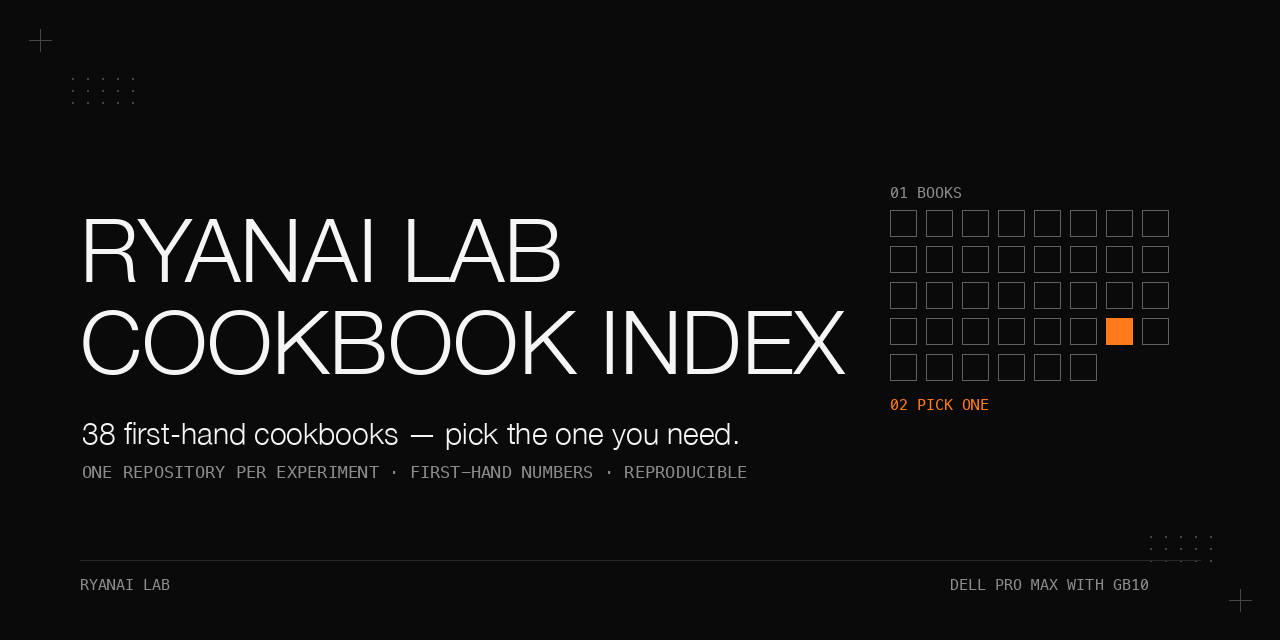
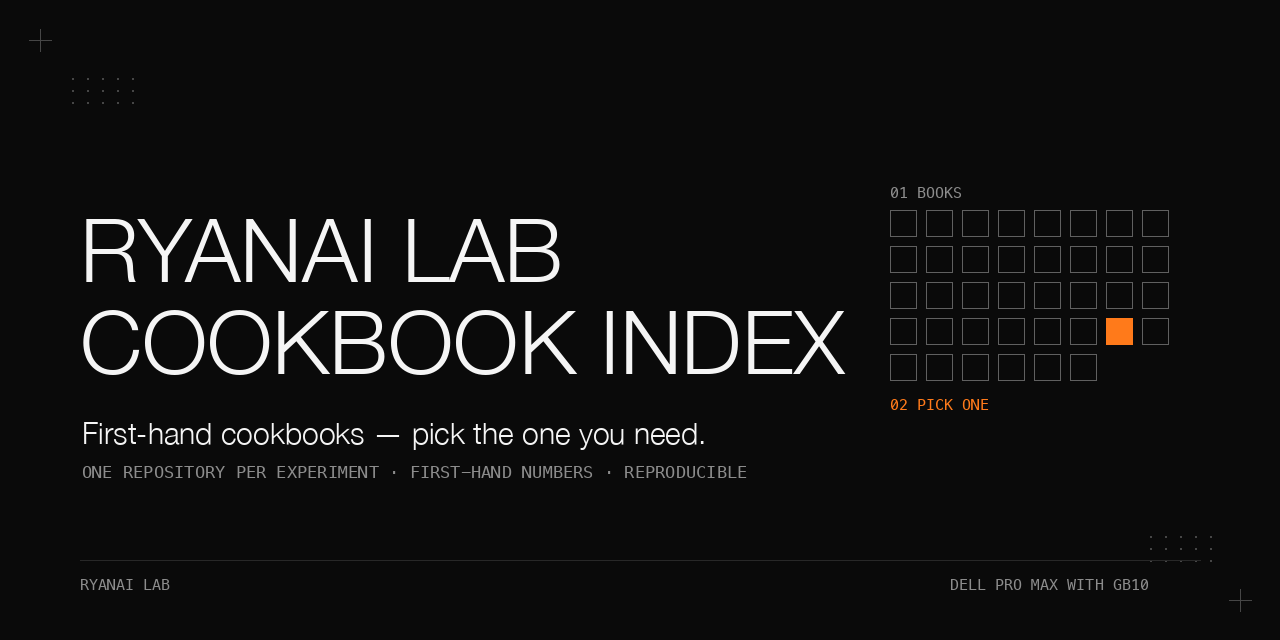
Index update (2026-10): 16 new cookbooks, status column (current/rollback/historical), new reading paths

Changed region(s): [[0.0625, 0.6562, 0.5625, 0.7188]]

diff --git a/docs/make_banner.py b/docs/make_banner.py
@@ -1,7 +1,7 @@
 #!/usr/bin/env python3
 """Draw the repo banner. Pure PIL, no generated imagery — RyanAI Lab house style.
 
-Concept: 38 first-hand cookbooks, pick the one you need.
+Concept: first-hand cookbooks, pick the one you need.
 Left = wordmark. Right = an index grid of 38 small tiles (one per cookbook),
 with a single orange tile marking the one you pick.
 """
@@ -48,7 +48,7 @@ for ox, oy in ((72, 78), (1150, 536)):
 # wordmark
 d.text((80, 196), "RYANAI LAB", font=f_title, fill=WHITE)
 d.text((80, 288), "COOKBOOK INDEX", font=f_title, fill=WHITE)
-d.text((82, 414), "38 first-hand cookbooks — pick the one you need.", font=f_tag, fill=WHITE)
+d.text((82, 414), "First-hand cookbooks — pick the one you need.", font=f_tag, fill=WHITE)
 d.text((82, 462), "ONE REPOSITORY PER EXPERIMENT · FIRST-HAND NUMBERS · REPRODUCIBLE", font=f_mono, fill=GREY)
 
 # right: index motif — a grid of 38 book tiles, one picked (orange)

diff --git a/README.md b/README.md
@@ -2,16 +2,16 @@
 
 # RyanAI Lab cookbooks — index
 
-Part of RyanAI Lab. One repository per experiment; each one carries its own numbers, pitfalls and reproduction steps. This page only tells you which one to open.
+Part of RyanAI Lab. One repository per experiment. Each one carries its own numbers, pitfalls and reproduction steps; this page only tells you which one to open.
 
 ## Start here
 
-**"I run one or two Dell Pro Max with GB10 nodes and want to serve a model"**
+**"I run a Dell Pro Max with GB10 and want to serve a model"**
 
 1. [dell-pro-max-gb10-uma-memory-pitfalls](https://github.com/ryangu00/dell-pro-max-gb10-uma-memory-pitfalls) — the unified-memory incidents every node operator hits first.
-2. [dell-pro-max-gb10-qsfp-dual-rail](https://github.com/ryangu00/dell-pro-max-gb10-qsfp-dual-rail) — cabling and NCCL rail naming that decides two-node throughput.
-3. [dell-pro-max-gb10-qwen3.8-flash-next](https://github.com/ryangu00/dell-pro-max-gb10-qwen3.8-flash-next) and [dell-pro-max-gb10-deepseek-v4-flash-vision-exp](https://github.com/ryangu00/dell-pro-max-gb10-deepseek-v4-flash-vision-exp) — the two two-node serving books (TP2, long context, vision).
-4. [dell-pro-max-gb10-qwen3.8-27b](https://github.com/ryangu00/dell-pro-max-gb10-qwen3.8-27b) and [dell-pro-max-gb10-gpt-oss-120b](https://github.com/ryangu00/dell-pro-max-gb10-gpt-oss-120b) — the single-node books, one engine-native, one release-software.
+2. [dell-pro-max-gb10-deepseek-v4-flash-vision-exl3-single-node](https://github.com/ryangu00/dell-pro-max-gb10-deepseek-v4-flash-vision-exl3-single-node) — the current single-node production setup: deployment, acceptance, a draft-model graft and a mislabeled-baseline lesson.
+3. [dell-pro-max-gb10-gpt-oss-120b](https://github.com/ryangu00/dell-pro-max-gb10-gpt-oss-120b) — a big model on one box on release software, zero patches.
+4. Two nodes: [dell-pro-max-gb10-qsfp-dual-rail](https://github.com/ryangu00/dell-pro-max-gb10-qsfp-dual-rail) for cabling, then [dell-pro-max-gb10-qwen3.8-flash-next](https://github.com/ryangu00/dell-pro-max-gb10-qwen3.8-flash-next). The cabling method remains current; the Flash-Next deployment is retained as a rollback recipe.
 
 **"I want to fine-tune on this hardware"**
 
@@ -23,45 +23,69 @@ Part of RyanAI Lab. One repository per experiment; each one carries its own numb
 **"I want to know whether a model is good for MY work"**
 
 1. [ryanai-evalbank](https://github.com/ryangu00/ryanai-evalbank) — the method for scoring a model on your own work without publishing the questions.
-2. [dell-pro-max-gb10-qwen3.8-flash-next-agentic-thinking](https://github.com/ryangu00/dell-pro-max-gb10-qwen3.8-flash-next-agentic-thinking) — why the measurement setting, not the model, decided an agentic gap.
-3. [dell-pro-max-gb10-qwen3.8-flash-next-engine-ab](https://github.com/ryangu00/dell-pro-max-gb10-qwen3.8-flash-next-engine-ab) — the engine-form A/B the setting change made possible.
+2. [local-llm-bakeoff-measurement-pitfalls](https://github.com/ryangu00/local-llm-bakeoff-measurement-pitfalls) — read the pipeline before you read the score.
+3. [dell-pro-max-gb10-qwen3.8-flash-next-agentic-thinking](https://github.com/ryangu00/dell-pro-max-gb10-qwen3.8-flash-next-agentic-thinking) — how thinking mode and vendor-specific sampling narrowed an observed agentic gap, with unequal thinking tiers and unresolved confounds.
 
-## Two-node serving on Dell Pro Max with GB10
+**"I run coding agents and want to trust what they report"**
 
-| repo | what it is | read it when | status | updated |
-|---|---|---|---|---|
-| [dell-pro-max-gb10-qwen3.8-flash-next](https://github.com/ryangu00/dell-pro-max-gb10-qwen3.8-flash-next) | Dual-node deployment of a new-architecture GDN+QSA model, from a 50K safety line to a 1M-context production engine. | You are standing up this model on two nodes. | current | 2026-09-20 |
-| [dell-pro-max-gb10-qwen3.8-flash-next-1m-context](https://github.com/ryangu00/dell-pro-max-gb10-qwen3.8-flash-next-1m-context) | Extending the model from native 262K context to a 1M window with static YaRN rope scaling, measured. | You need a validated long-context recipe, not guesses. | current | 2026-09-20 |
-| [dell-pro-max-gb10-qwen3.8-flash-next-agentic-thinking](https://github.com/ryangu00/dell-pro-max-gb10-qwen3.8-flash-next-agentic-thinking) | A failed agentic gate shown to be a measurement setting, fixed by enabling thinking mode. | Your model "fails" agentic evaluation and you suspect the harness. | current | 2026-09-20 |
-| [dell-pro-max-gb10-qwen3.8-flash-next-engine-ab](https://github.com/ryangu00/dell-pro-max-gb10-qwen3.8-flash-next-engine-ab) | A one-night A/B of engine forms: native 262K vs YaRN variants vs KV precision vs MTP off. | You are choosing between engine configurations of the same weights. | current | 2026-09-20 |
-| [dell-pro-max-gb10-vllm-mtp-async-runaway](https://github.com/ryangu00/dell-pro-max-gb10-vllm-mtp-async-runaway) | Runaway repetition loops from async scheduling combined with MTP, and the one-flag fix. | Your stack repeats itself under real agentic load. | current | 2026-09-20 |
-| [dell-pro-max-gb10-vllm-stack-ab](https://github.com/ryangu00/dell-pro-max-gb10-vllm-stack-ab) | A/B of vLLM serving stacks for two-node deployment. | You are picking a serving stack rather than a model. | current | 2026-09-17 |
-| [dell-pro-max-gb10-zero-downtime-model-swap](https://github.com/ryangu00/dell-pro-max-gb10-zero-downtime-model-swap) | Swapping the engine from one model stack to another with zero changes on consumer surfaces. | You must change engines without breaking callers. | current | 2026-09-20 |
-| [dell-pro-max-gb10-deepseek-v4-flash-vision-exp](https://github.com/ryangu00/dell-pro-max-gb10-deepseek-v4-flash-vision-exp) | Two-node tensor-parallel serving of vision-enhanced weights with long context and image input. | You want a two-node production stack with vision. | current | 2026-09-20 |
-| [dell-pro-max-gb10-dual-node-model-bakeoff-2026-05](https://github.com/ryangu00/dell-pro-max-gb10-dual-node-model-bakeoff-2026-05) | Head-to-head selection benchmark across four candidate models on a private question suite. | You are comparing candidate models for a two-node purchase or deployment. | historical | 2026-09-20 |
+1. [agent-guards-that-fail-silently](https://github.com/ryangu00/agent-guards-that-fail-silently) — negative probes for guards that look armed and are not.
+2. [sandboxed-coding-agent-workers](https://github.com/ryangu00/sandboxed-coding-agent-workers) — isolate the configuration, sandbox to the minimum, verify outside the worker.
+3. [two-coding-agents-side-by-side](https://github.com/ryangu00/two-coding-agents-side-by-side) — one set of guards for two agents and a read-only cross-vendor reviewer.
+4. [axiom](https://github.com/ryangu00/axiom) — the completion verifier several of these books build on.
+
+**"I want a small local model to make decisions or route requests"**
+
+1. [local-llm-as-decision-maker](https://github.com/ryangu00/local-llm-as-decision-maker) — first-token readouts, literal question batteries, fine-tuning and the arithmetic of small samples.
+2. [agent-persona-semantic-router-calibration](https://github.com/ryangu00/agent-persona-semantic-router-calibration) — embedding routing to hundreds of personas with no LLM on the hot path.
+3. [llm-gateway-routing-in-production](https://github.com/ryangu00/llm-gateway-routing-in-production) — a configured fallback is not a working fallback.
+
+## Status column
+
+- **current**: the setup is in use, or the method or fix is still what we recommend.
+- **rollback**: the setup no longer serves production but is kept as a fallback; its measurements still hold for that recipe and hardware.
+- **historical**: a record. The setup has been replaced or removed; the pitfalls and measurements stand as of the dates in the book.
 
 ## Single-node serving on Dell Pro Max with GB10
 
 | repo | what it is | read it when | status | updated |
 |---|---|---|---|---|
-| [dell-pro-max-gb10-qwen3.8-27b](https://github.com/ryangu00/dell-pro-max-gb10-qwen3.8-27b) | Single-machine deployment of Qwen3.8-27B with quantization, speculative decoding and a hot-plugged vision tower. | You want the single-node workhorse setup. | current | 2026-09-20 |
+| [dell-pro-max-gb10-deepseek-v4-flash-vision-exl3-single-node](https://github.com/ryangu00/dell-pro-max-gb10-deepseek-v4-flash-vision-exl3-single-node) | DeepSeek V4 Flash with vision on one node: deployment, acceptance, a draft-model graft for faster decode, and a mislabeled-baseline lesson. | You want one box with long context and image input. | current | 2026-10-04 |
+| [dell-pro-max-gb10-deepseek-v4-flash-exl3](https://github.com/ryangu00/dell-pro-max-gb10-deepseek-v4-flash-exl3) | The text-only EXL3 build that preceded it: one machine, one seat, ultra-long context. | You want the text-only recipe or its corrected engine description. | rollback | 2026-10-03 |
+| [dell-pro-max-gb10-qwen3.8-27b](https://github.com/ryangu00/dell-pro-max-gb10-qwen3.8-27b) | Qwen3.8-27B with quantization, speculative decoding and a hot-plugged vision tower, and what replaced it. | You want a dense mid-size model on one node. | historical | 2026-10-03 |
 | [dell-pro-max-gb10-qwen3.8-27b-mtp-k-sweep](https://github.com/ryangu00/dell-pro-max-gb10-qwen3.8-27b-mtp-k-sweep) | Four rounds of community-proposed serving tuning, all rolled back, with the evidence. | A tuning recipe from the internet looks tempting. | current | 2026-09-20 |
-| [dell-pro-max-gb10-qwen3.8-27b-dflash2-exl3](https://github.com/ryangu00/dell-pro-max-gb10-qwen3.8-27b-dflash2-exl3) | Head-to-head of an EXL3 quantized serving stack against the production vLLM stack for the same model. | You are considering exllamav3 instead of vLLM. | current | 2026-09-20 |
-| [dell-pro-max-gb10-qwen3.6-35b-a3b-nvfp4-mtp](https://github.com/ryangu00/dell-pro-max-gb10-qwen3.6-35b-a3b-nvfp4-mtp) | NVFP4 serving of Qwen3.6-35B-A3B with speculative decoding and alternative MoE/attention backends. | You want to know if this model works on one node. | historical | 2026-09-20 |
-| [dell-pro-max-gb10-muse-glimmer-30b](https://github.com/ryangu00/dell-pro-max-gb10-muse-glimmer-30b) | Deployment of the open-weight Muse family member, ending in a negative result against the incumbent. | You are evaluating this model family. | current | 2026-09-20 |
-| [dell-pro-max-gb10-glm-5.3-flash](https://github.com/ryangu00/dell-pro-max-gb10-glm-5.3-flash) | Full record of a no-go verdict for a dual-machine deployment after a full day of testing. | You want the failure case before trying it yourself. | current | 2026-09-03 |
+| [dell-pro-max-gb10-qwen3.8-27b-dflash2-exl3](https://github.com/ryangu00/dell-pro-max-gb10-qwen3.8-27b-dflash2-exl3) | A rejected EXL3/DFlash2 alternative to vLLM: faster single-stream decoding, but loss of vision, batch-1 concurrency and fork-maintenance costs. | You are considering exllamav3 instead of vLLM. | historical | 2026-09-20 |
 | [dell-pro-max-gb10-gpt-oss-120b](https://github.com/ryangu00/dell-pro-max-gb10-gpt-oss-120b) | A frontier-class 120B on one node at stable throughput on release software, zero patches. | You want a big model on one box without patching. | current | 2026-09-03 |
-| [dell-pro-max-gb10-qwen-int4-122b](https://github.com/ryangu00/dell-pro-max-gb10-qwen-int4-122b) | Our earliest resident production config and the incident-driven ops hardening around it. | You are building ops discipline around a resident service. | current | 2026-09-03 |
-| [dell-pro-max-gb10-deepseek-v4-flash-exl3](https://github.com/ryangu00/dell-pro-max-gb10-deepseek-v4-flash-exl3) | EXL3 quantization, one machine, one seat, ultra-long context. | You want a single-seat long-context workstation, not concurrency. | current | 2026-09-03 |
-| [dell-pro-max-gb10-thinking-tier-proxy](https://github.com/ryangu00/dell-pro-max-gb10-thinking-tier-proxy) | A thin proxy where the local port decides whether and how hard a request thinks. | You want thinking tiers without touching the engine. | current | 2026-09-20 |
-| [dell-pro-max-gb10-ollama-toolbox](https://github.com/ryangu00/dell-pro-max-gb10-ollama-toolbox) | The utility-slot models around a main workhorse: vision fallback, page extraction, embedding. | You are filling the small model slots next to your LLM. | current | 2026-09-03 |
-| [dell-pro-max-gb10-kvbm-ssd-kv-cache](https://github.com/ryangu00/dell-pro-max-gb10-kvbm-ssd-kv-cache) | A minimal measured test of three-tier KV-cache offload, kept for the evidence, not a recommendation. | You are tempted by KV-cache offload to disk. | current | 2026-09-18 |
+| [dell-pro-max-gb10-qwen3.6-35b-a3b-nvfp4-mtp](https://github.com/ryangu00/dell-pro-max-gb10-qwen3.6-35b-a3b-nvfp4-mtp) | NVFP4 serving of Qwen3.6-35B-A3B with speculative decoding and alternative MoE/attention backends. | You want to know if this model works on one node. | historical | 2026-09-20 |
+| [dell-pro-max-gb10-muse-glimmer-30b](https://github.com/ryangu00/dell-pro-max-gb10-muse-glimmer-30b) | Deployment of the open-weight Muse family member, ending in a negative result against the incumbent. | You are evaluating this model family. | historical | 2026-09-20 |
+| [dell-pro-max-gb10-qwen-int4-122b](https://github.com/ryangu00/dell-pro-max-gb10-qwen-int4-122b) | Our earliest resident production config and the incident-driven ops hardening around it. | You are building ops discipline around a resident service. | historical | 2026-09-03 |
+| [dell-pro-max-gb10-thinking-tier-proxy](https://github.com/ryangu00/dell-pro-max-gb10-thinking-tier-proxy) | A thin proxy where the local port decides whether and how hard a request thinks. | You want thinking tiers without touching the engine. | current | 2026-10-03 |
+| [dell-pro-max-gb10-ollama-toolbox](https://github.com/ryangu00/dell-pro-max-gb10-ollama-toolbox) | The utility-slot models around a main workhorse: page extraction, embedding, and the retired vision-fallback slot. | You are filling the small model slots next to your LLM. | current | 2026-10-03 |
+| [dell-pro-max-gb10-unlimited-ocr-doc-ingest](https://github.com/ryangu00/dell-pro-max-gb10-unlimited-ocr-doc-ingest) | Document ingest with a local OCR model: why per-page OCR beat a multi-page call that silently corrupted tables. | You turn scanned or office documents into Markdown locally. | current | 2026-10-04 |
+| [dell-pro-max-gb10-kvbm-ssd-kv-cache](https://github.com/ryangu00/dell-pro-max-gb10-kvbm-ssd-kv-cache) | A minimal measured test of three-tier KV-cache offload, kept for the evidence, not a recommendation. | You are tempted by KV-cache offload to disk. | historical | 2026-10-03 |
+
+## Two-node serving on Dell Pro Max with GB10
+
+Our two-node setup served production until 2026-09-25 and is now a rollback tier. Methods and fixes still apply; the deployments are records.
+
+| repo | what it is | read it when | status | updated |
+|---|---|---|---|---|
+| [dell-pro-max-gb10-qwen3.8-flash-next](https://github.com/ryangu00/dell-pro-max-gb10-qwen3.8-flash-next) | Dual-node deployment of a new-architecture GDN+QSA model, from a 50K safety line to a 1M-context engine. | You are standing up this model on two nodes. | rollback | 2026-10-03 |
+| [dell-pro-max-gb10-qwen3.8-flash-next-1m-context](https://github.com/ryangu00/dell-pro-max-gb10-qwen3.8-flash-next-1m-context) | Extending the model from native 262K context to a 1M window with static YaRN rope scaling, measured. | You need a validated long-context recipe, not guesses. | rollback | 2026-10-03 |
+| [dell-pro-max-gb10-qwen3.8-flash-next-engine-ab](https://github.com/ryangu00/dell-pro-max-gb10-qwen3.8-flash-next-engine-ab) | A one-night A/B of engine forms: native 262K vs YaRN variants vs KV precision vs MTP off. | You are choosing between engine configurations of the same weights. | rollback | 2026-10-03 |
+| [dell-pro-max-gb10-qwen3.8-flash-next-agentic-thinking](https://github.com/ryangu00/dell-pro-max-gb10-qwen3.8-flash-next-agentic-thinking) | How thinking mode and vendor-specific sampling narrowed an observed agentic gap, with unequal thinking tiers and unresolved confounds. | Your model "fails" agentic evaluation and you suspect the harness. | current | 2026-10-03 |
+| [dell-pro-max-gb10-vllm-mtp-async-runaway](https://github.com/ryangu00/dell-pro-max-gb10-vllm-mtp-async-runaway) | Runaway repetition loops from async scheduling combined with MTP, and the one-flag fix. | Your stack repeats itself under real agentic load. | current | 2026-09-20 |
+| [dell-pro-max-gb10-zero-downtime-model-swap](https://github.com/ryangu00/dell-pro-max-gb10-zero-downtime-model-swap) | Swapping engines with zero changes on consumer surfaces, and what the rollback promise was worth after a power cut. | You must change engines without breaking callers. | current | 2026-10-03 |
+| [dell-pro-max-gb10-vllm-stack-ab](https://github.com/ryangu00/dell-pro-max-gb10-vllm-stack-ab) | A/B of vLLM serving stacks for two-node deployment, what happened after it, and a hardened switch script. | You are picking a serving stack rather than a model. | rollback | 2026-10-03 |
+| [dell-pro-max-gb10-deepseek-v4-flash-vision-exp](https://github.com/ryangu00/dell-pro-max-gb10-deepseek-v4-flash-vision-exp) | Two-node tensor-parallel serving of vision-enhanced weights with long context and image input. | You want the two-node vision recipe; the single-node book replaced it. | historical | 2026-10-03 |
+| [dell-pro-max-gb10-dual-node-model-bakeoff-2026-05](https://github.com/ryangu00/dell-pro-max-gb10-dual-node-model-bakeoff-2026-05) | Head-to-head selection benchmark across four candidate models on a private question suite. | You are comparing candidate models for a two-node deployment. | historical | 2026-09-20 |
+| [dell-pro-max-gb10-glm-5.3-flash](https://github.com/ryangu00/dell-pro-max-gb10-glm-5.3-flash) | Full record of a no-go verdict for a dual-machine deployment after a full day of testing. | You want the failure case before trying it yourself. | historical | 2026-09-03 |
+| [dell-pro-max-gb10-openmaic-local-course-engine](https://github.com/ryangu00/dell-pro-max-gb10-openmaic-local-course-engine) | An OpenMAIC course-generation feasibility study using a local vLLM endpoint on two GB10 nodes, with unresolved configuration and browser-egress checks. | You want to evaluate local course generation and its deployment limits. | historical | 2026-10-04 |
 
 ## Hardware and OS
 
 | repo | what it is | read it when | status | updated |
 |---|---|---|---|---|
-| [dell-pro-max-gb10-uma-memory-pitfalls](https://github.com/ryangu00/dell-pro-max-gb10-uma-memory-pitfalls) | Seven incidents where unified memory (CPU and GPU sharing it) caused OOM or worse, with the healing patterns. | Anything on this hardware OOMs and you do not know why. | current | 2026-09-20 |
+| [dell-pro-max-gb10-uma-memory-pitfalls](https://github.com/ryangu00/dell-pro-max-gb10-uma-memory-pitfalls) | Incidents where unified memory caused OOM or worse, what headless actually saves, and the healing patterns. | Anything on this hardware OOMs and you do not know why. | current | 2026-10-03 |
 | [dell-pro-max-gb10-ota-kernel7-kho](https://github.com/ryangu00/dell-pro-max-gb10-ota-kernel7-kho) | Upgrading both nodes across a major kernel, driver and grub change without bricking. | An OTA is overdue and you are afraid of it. | current | 2026-09-20 |
 | [dell-pro-max-gb10-qsfp-dual-rail](https://github.com/ryangu00/dell-pro-max-gb10-qsfp-dual-rail) | A community finding about the QSFP port enumerating as two virtual NICs, verified on hardware back-to-back. | Your two-node bandwidth is half of what it should be. | current | 2026-09-20 |
 
@@ -71,42 +95,66 @@ Part of RyanAI Lab. One repository per experiment; each one carries its own numb
 |---|---|---|---|---|
 | [training-moe-lora-cpt-gb10](https://github.com/ryangu00/training-moe-lora-cpt-gb10) | A measured walkthrough of continued pre-training plus LoRA/SFT of a 35B-A3B MoE on one node. | You are attempting full pre-training-scale work on one box. | current | 2026-09-20 |
 | [training-sft-ablation-discipline](https://github.com/ryangu00/training-sft-ablation-discipline) | A factorial ablation that traced a regression to its cause and measured the base inside the drift band. | Two things changed at once and quality dropped. | current | 2026-09-20 |
-| [training-weights-vs-context](https://github.com/ryangu00/training-weights-vs-context) | Three capability specialisations of one base family, each attempted by weights first, each gated by the same guardrail. | You cannot decide between fine-tuning and context. | current | 2026-09-20 |
+| [training-weights-vs-context](https://github.com/ryangu00/training-weights-vs-context) | Three capability specialisations of one base family, each attempted by weights first, each gated by the same guardrail. | You cannot decide between fine-tuning and context. | current | 2026-10-03 |
 | [training-vl-lora-qwen3.8-27b](https://github.com/ryangu00/training-vl-lora-qwen3.8-27b) | Training a vision LoRA on a public chart dataset and hot-plugging it into a running server. | You want a trained adapter live without a restart. | current | 2026-09-20 |
-| [training-embedding-finetune](https://github.com/ryangu00/training-embedding-finetune) | Fine-tuning an embedding model on your own corpus style and deploying it as a resident service. | Your retrieval misses and your domain vocabulary is odd. | current | 2026-09-20 |
-| [training-reranker](https://github.com/ryangu00/training-reranker) | Self-hosting and training a reranker, plus a community-scale pitfall where a bad file masqueraded as a weak model. | Your precision ranking stage needs work. | current | 2026-09-03 |
+| [training-embedding-finetune](https://github.com/ryangu00/training-embedding-finetune) | Fine-tuning an embedding model on your own corpus style and deploying it as a resident service. | Your retrieval misses and your domain vocabulary is odd. | current | 2026-10-03 |
+| [training-reranker](https://github.com/ryangu00/training-reranker) | Self-hosting and training a reranker, plus a community-scale pitfall where a bad file masqueraded as a weak model. | Your precision ranking stage needs work. | current | 2026-10-03 |
 
 ## Apple silicon
 
 | repo | what it is | read it when | status | updated |
 |---|---|---|---|---|
-| [apple-silicon-qwen3-235b-a22b](https://github.com/ryangu00/apple-silicon-qwen3-235b-a22b) | A real-world record of running a 235B MoE on a large-unified-memory Mac, ending in a deliberate retirement. | You wonder whether a huge MoE fits on a Mac. | current | 2026-09-03 |
+| [apple-silicon-qwen3-235b-a22b](https://github.com/ryangu00/apple-silicon-qwen3-235b-a22b) | A real-world record of running a 235B MoE on a large-unified-memory Mac, ending in a deliberate retirement. | You wonder whether a huge MoE fits on a Mac. | historical | 2026-09-03 |
 | [apple-silicon-qwen3.6-27b](https://github.com/ryangu00/apple-silicon-qwen3.6-27b) | The sweet-spot selection story for a local model on a 64GB Mac. | You are choosing the default local model for a 64GB Mac. | current | 2026-09-03 |
 | [apple-silicon-wemm-embedding](https://github.com/ryangu00/apple-silicon-wemm-embedding) | Replacing the image-embedding model behind a personal knowledge base, measured end to end. | Your image search needs a better embedding model. | current | 2026-09-10 |
 
-## Retrieval, embeddings and agents
+## Coding agents and agent harnesses
 
 | repo | what it is | read it when | status | updated |
 |---|---|---|---|---|
+| [agent-guards-that-fail-silently](https://github.com/ryangu00/agent-guards-that-fail-silently) | Negative probes, structural rules, and who is allowed to sign off. | You have guards and have never seen one fire. | current | 2026-10-04 |
+| [sandboxed-coding-agent-workers](https://github.com/ryangu00/sandboxed-coding-agent-workers) | Isolate the configuration, sandbox to the minimum, and never trust the worker's own report. | You hand work to a coding agent running unattended. | current | 2026-10-04 |
+| [two-coding-agents-side-by-side](https://github.com/ryangu00/two-coding-agents-side-by-side) | One set of guards, a read-only cross-vendor reviewer, and knowing when a review has converged. | You run agents from two vendors on the same code. | current | 2026-10-04 |
+| [local-multi-agent-coordination](https://github.com/ryangu00/local-multi-agent-coordination) | A retired coordination hub, loop controls, a review gate with explicit bypass limits, and a single-writer acceptance pass. | Several local agents talk to each other and loop. | current | 2026-10-04 |
+| [agent-harness-self-evolution-reality-check](https://github.com/ryangu00/agent-harness-self-evolution-reality-check) | Loops that never closed end to end, how many weeks a 5-point effect needs, and what routing audits really showed. | You plan a harness that improves itself. | current | 2026-10-04 |
+| [westpoint-agent-eval-rigged-sandbox](https://github.com/ryangu00/westpoint-agent-eval-rigged-sandbox) | Three runnable exams in rigged sandboxes where end state is graded, not narration. | You are evaluating agents in an environment built to be adversarial. | current | 2026-09-03 |
+| [deepseek-harness-three-knobs](https://github.com/ryangu00/deepseek-harness-three-knobs) | A measured test of three community-proposed levers on DeepSeek Harness, all opt-in, against a measured baseline. | Someone proposed a harness tweak and you want the verdict first. | current | 2026-10-03 |
+| [credential-safe-stdlib-api-client](https://github.com/ryangu00/credential-safe-stdlib-api-client) | A credential-safe API client in the Python standard library: five adversarial reviews and the rules they forced. | An agent writes code that holds an API key. | current | 2026-10-04 |
+| [axiom](https://github.com/ryangu00/axiom) | A tool, not a cookbook: verifies agent completion claims against evidence declared before the work. | You want "done" checked by something other than the agent. | current | 2026-10-03 |
+
+## Local models as components
+
+| repo | what it is | read it when | status | updated |
+|---|---|---|---|---|
+| [local-llm-as-decision-maker](https://github.com/ryangu00/local-llm-as-decision-maker) | Small local models as decision makers: readouts, question batteries, fine-tuning, a rename test, small-sample arithmetic. | You want a model to choose, not to write. | current | 2026-10-04 |
+| [agent-persona-semantic-router-calibration](https://github.com/ryangu00/agent-persona-semantic-router-calibration) | Routing to one of hundreds of personas by embedding: task phrasings, mean versus max, and a threshold that moves with them. | You route requests without an LLM in the loop. | current | 2026-10-04 |
+| [llm-gateway-routing-in-production](https://github.com/ryangu00/llm-gateway-routing-in-production) | Fault-injected fallbacks, evidence-gated route changes and a model catalog that cannot drift quietly (LiteLLM). | Your gateway config promises a fallback you have never tested. | current | 2026-10-04 |
+| [decision-record-deidentification-gates](https://github.com/ryangu00/decision-record-deidentification-gates) | Turning your own decision records into training data: three de-identification gates that have to converge. | You want to train on private records without leaking them. | current | 2026-10-04 |
+
+## Knowledge bases and retrieval
+
+| repo | what it is | read it when | status | updated |
+|---|---|---|---|---|
+| [pgvector-knowledge-base-upgrade-and-restore-drill](https://github.com/ryangu00/pgvector-knowledge-base-upgrade-and-restore-drill) | Restore first, then upgrade: proving a Postgres + pgvector knowledge base can come back, then rehearsing the upgrade on that proof. | Your knowledge base has backups nobody has restored. | current | 2026-10-04 |
+| [keeping-agent-knowledge-files-intact](https://github.com/ryangu00/keeping-agent-knowledge-files-intact) | Append-only mirrors, a non-blocking ingest gate, verbatim memory curation, and pushes that do not lie. | Agents write into your notes and you have lost text before. | current | 2026-10-04 |
+| [pgvector-bilingual-embedding-selection](https://github.com/ryangu00/pgvector-bilingual-embedding-selection) | A measured selection of a bilingual text-embedding model, including the HNSW limit and a config hazard. | Your knowledge base is bilingual and your embeddings underperform. | current | 2026-10-03 |
 | [agentic-rag-from-scratch](https://github.com/ryangu00/agentic-rag-from-scratch) | Building agentic retrieval-augmented generation from first principles. | You are building an agentic RAG loop yourself. | current | 2026-09-03 |
-| [pgvector-bilingual-embedding-selection](https://github.com/ryangu00/pgvector-bilingual-embedding-selection) | A measured selection of a bilingual text-embedding model, including the HNSW limit and a config hazard. | Your knowledge base is bilingual and your embeddings underperform. | current | 2026-09-20 |
-| [westpoint-agent-eval-rigged-sandbox](https://github.com/ryangu00/westpoint-agent-eval-rigged-sandbox) | WestPoint: an agent evaluation inside a deliberately rigged sandbox. | You are evaluating agents in an environment built to be adversarial. | current | 2026-09-03 |
-| [deepseek-harness-three-knobs](https://github.com/ryangu00/deepseek-harness-three-knobs) | A measured test of three community-proposed levers on DeepSeek Harness, all opt-in, against a measured baseline. | Someone proposed a harness tweak and you want the verdict first. | current | 2026-09-20 |
 
 ## Evaluation method
 
 | repo | what it is | read it when | status | updated |
 |---|---|---|---|---|
-| [ryanai-evalbank](https://github.com/ryangu00/ryanai-evalbank) | A method and harness for scoring a model on your own work, without publishing the questions. | You want numbers that describe your workload, not someone else's. | current | 2026-09-20 |
+| [ryanai-evalbank](https://github.com/ryangu00/ryanai-evalbank) | A method and harness for scoring a model on your own work, without publishing the questions. | You want numbers that describe your workload, not someone else's. | current | 2026-10-03 |
+| [local-llm-bakeoff-measurement-pitfalls](https://github.com/ryangu00/local-llm-bakeoff-measurement-pitfalls) | Anomalous scores traced to defects in the measurement chain, and checks that refuse the misleading comparison. | A local model scores strangely and you are about to believe it. | current | 2026-10-04 |
 
 ## How these were made
 
-Every number in these books is first-hand, measured on the named hardware. The questions of our private evaluation bank are never published; only the method is. Every repository went through an independent two-lens review — privacy line by line, rigor number by number — before publication. The author identity is in each LICENSE.
+These books distinguish first-hand measurements, observations, estimates and third-party reports, with their conditions and limitations. The questions of our private evaluation bank are never published; only the method is. Every repository is reviewed independently before publication on three lenses: privacy line by line, rigor number by number, and whether the reproduction steps actually run. Findings are reconciled before anything is pushed. The author identity is in each LICENSE.
 
 ## Conventions
 
 - "Two nodes" always means two Dell Pro Max with GB10 nodes (head node + worker node, TP2 over RoCE).
-- Scores are medians of two runs, with the spread reported.
+- In the model-serving books, scores are medians of two runs, with the spread reported, unless a book says otherwise.
 - A category where the incumbent scores ≥ 95 is a ceiling, not a result.
 - Nothing here is a benchmark ranking for the reader; it is a record of our own measurements.
 
